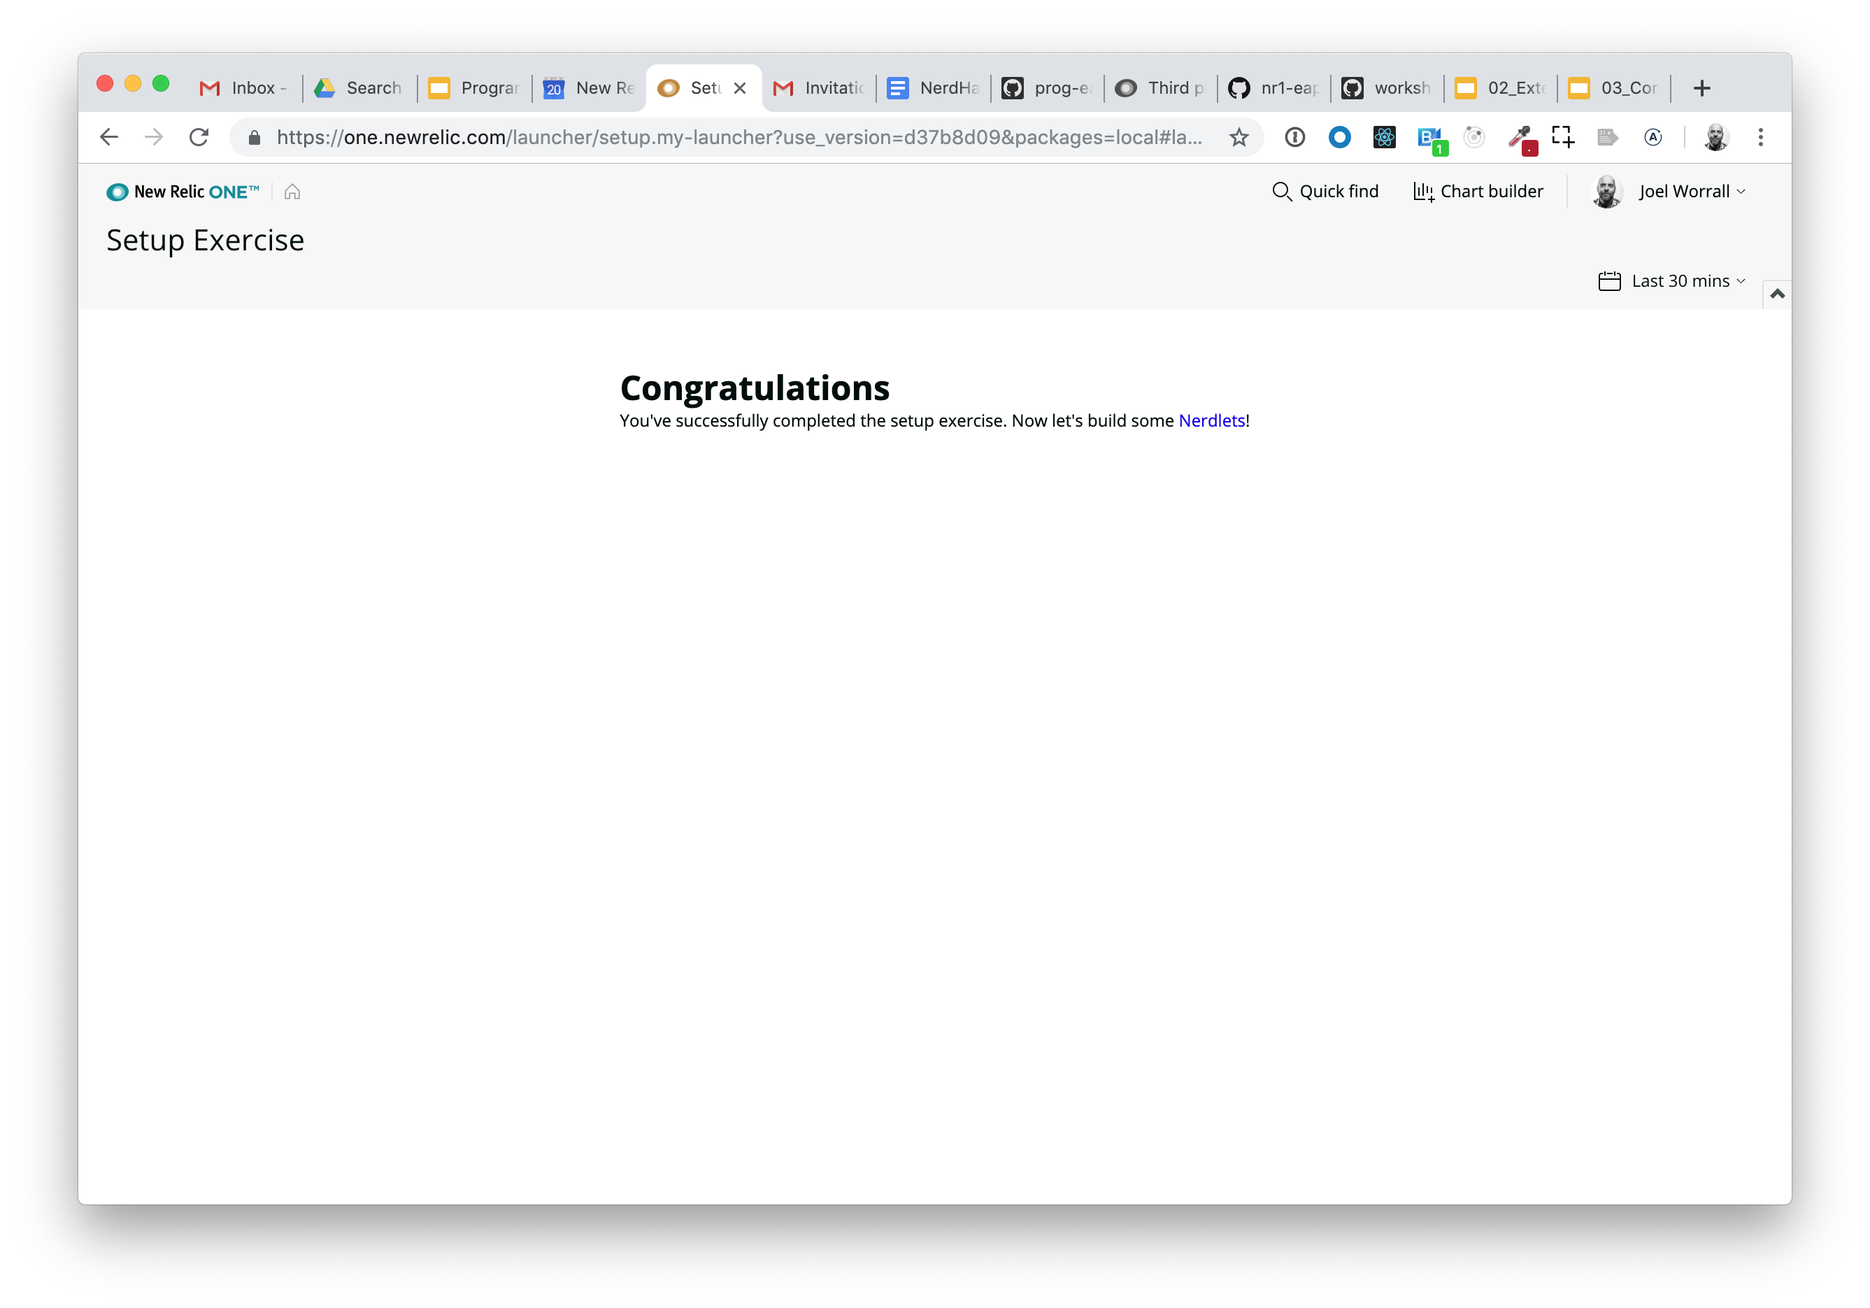
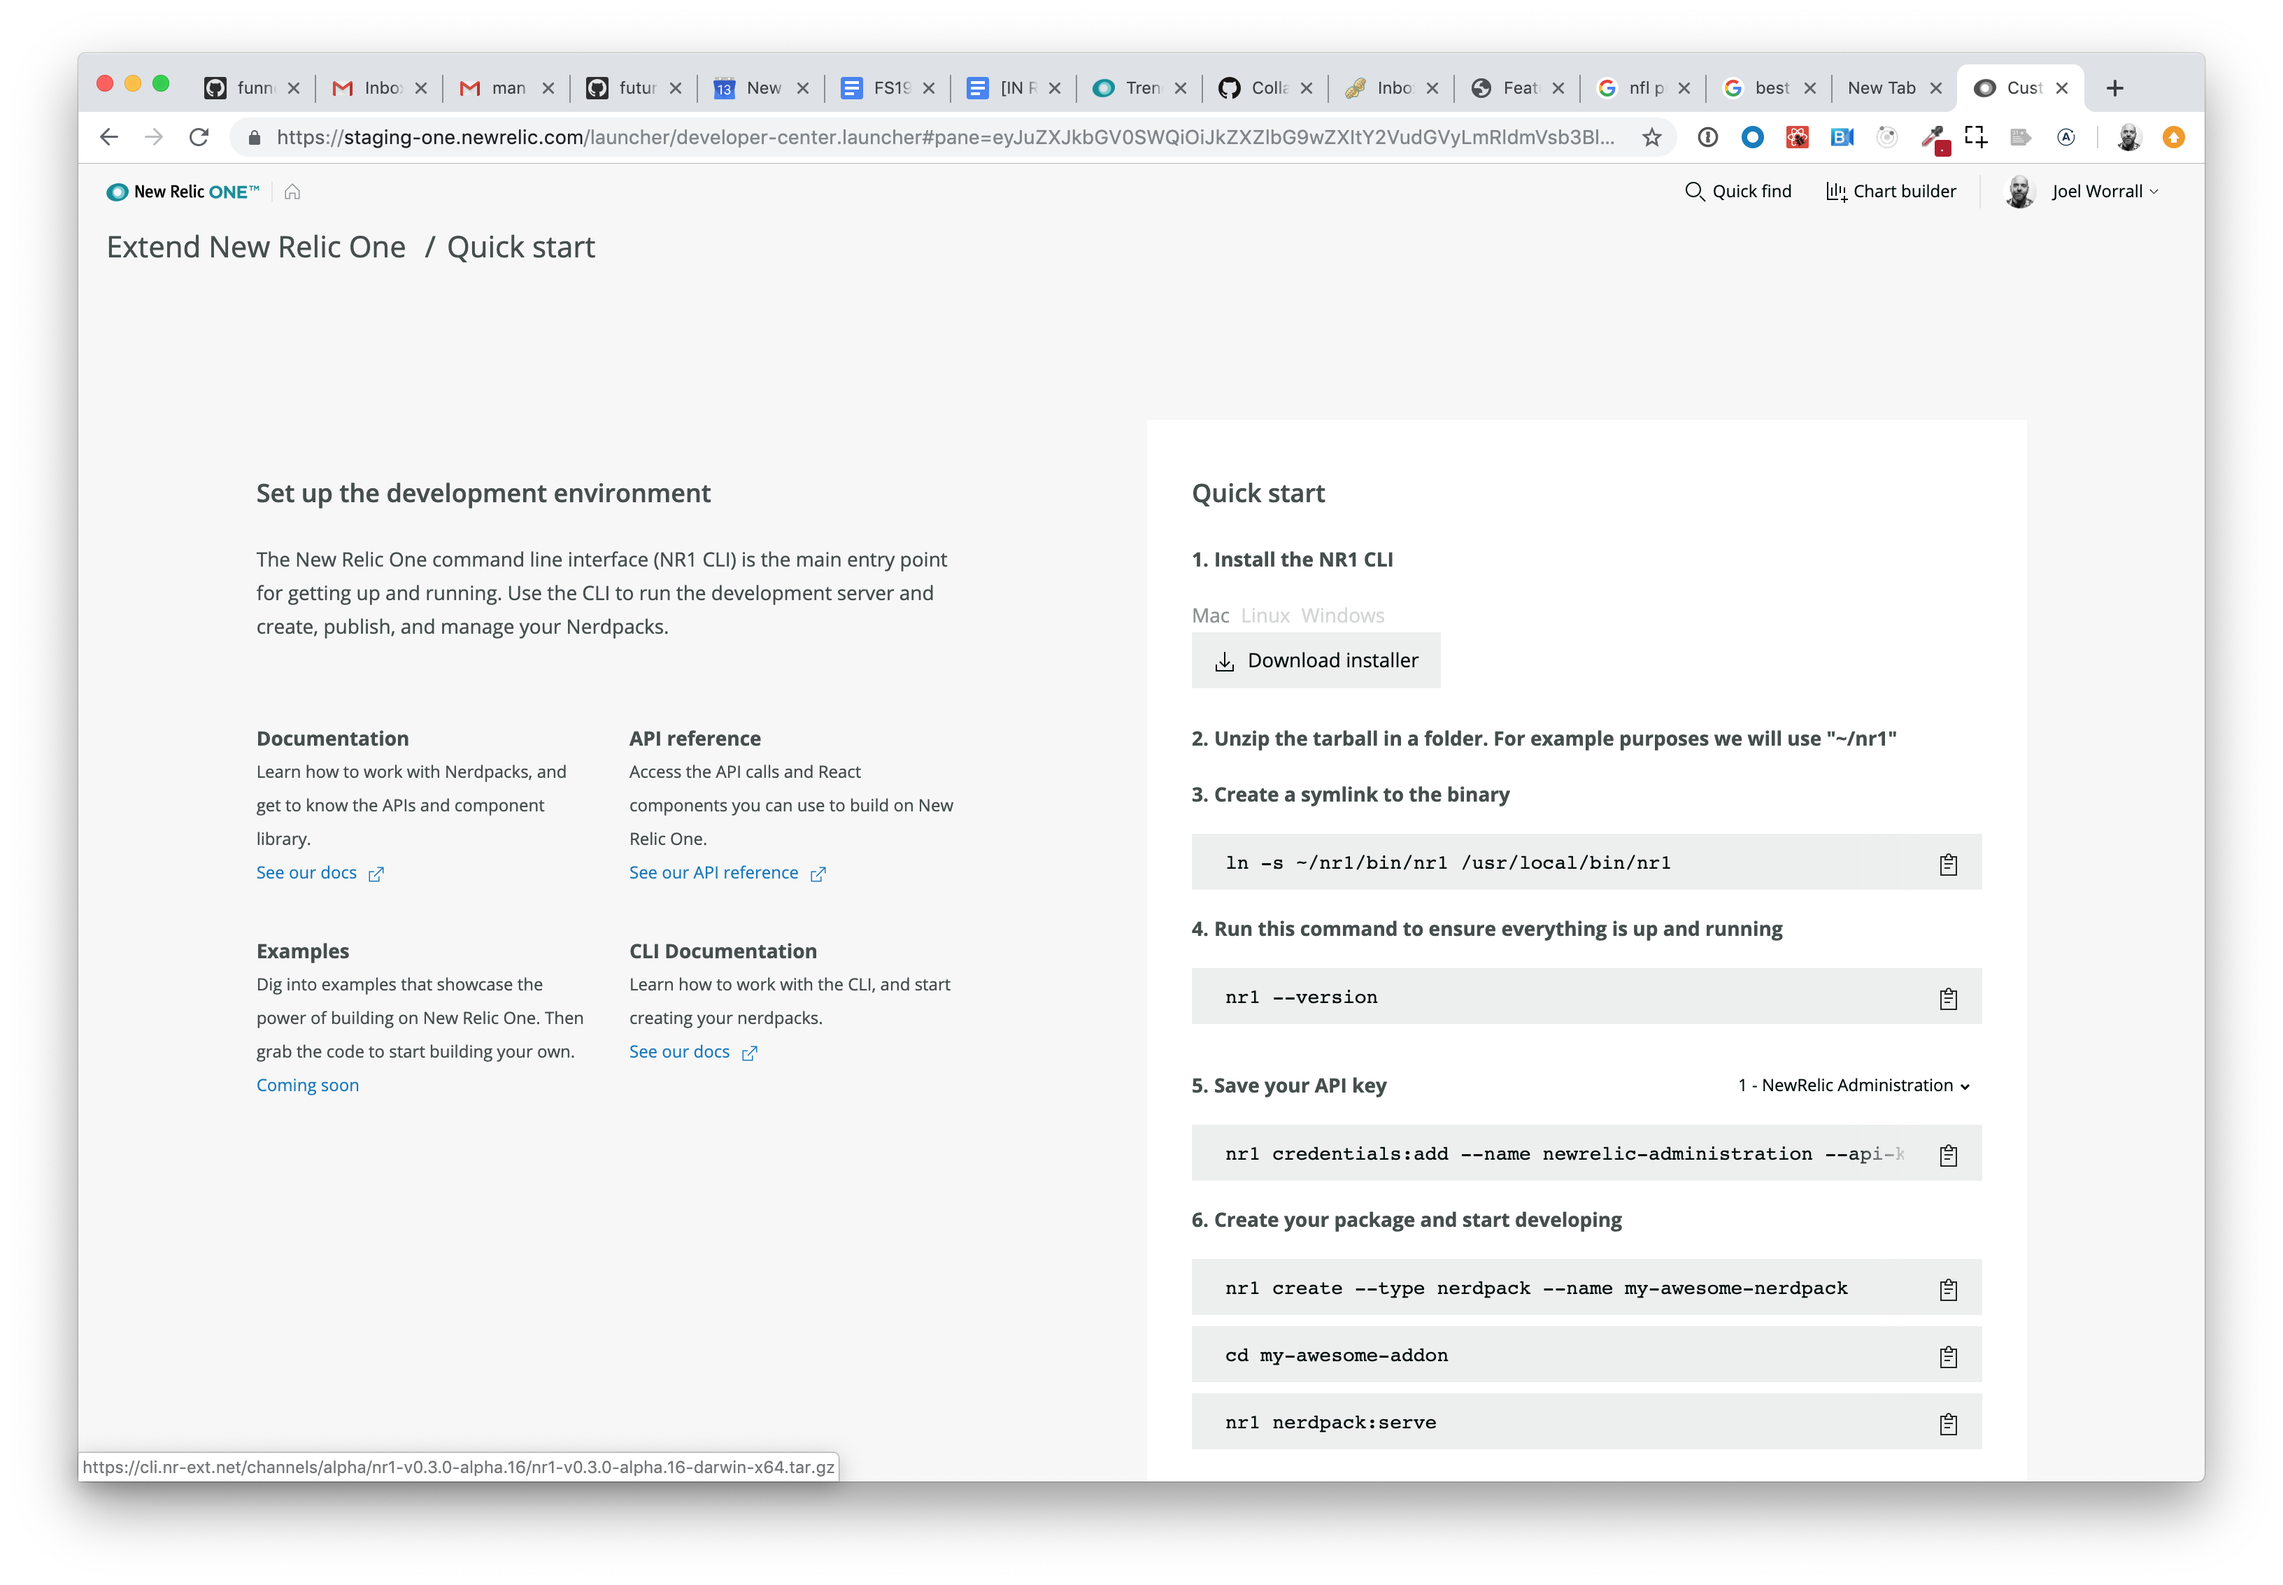
Updating the links and instructions for all NR1 workshop material.

diff --git a/SETUP.md b/SETUP.md
@@ -4,57 +4,46 @@ Getting ready to build on the New Relic One platform is quick and easy. Essentia
 
 # Setup Instructions
 
-1. In Google Chrome, navigate to <a href="https://github.com/newrelic/eap-cli/commit/310f68cbf32c01c0be3f4c3dc5f83ec689eee9c7" target="_blank">`This link`</a>, and click on the appropriate release of the NR1 CLI. (ex. `nr1-v0.3.0-alpha.11`)
-2. Download the appropriate zipped bundle of the NR1 CLI and **unzip it to your home folder** (ex. for Mac it would be `nr1-v0.3.0-alpha.11-darwin-x64.tar.gz`).
-3. Open a Terminal window. From the command line you should the following:
+In Google Chrome, navigate to the [New Relic One Developer Center](https://one.newrelic.com/launcher/developer-center.launcher#pane=eyJuZXJkbGV0SWQiOiJkZXZlbG9wZXItY2VudGVyLmRldmVsb3Blci1jZW50ZXIifQ==), and follow the instructions.
 
-```bash
-# To verify that you've unzipped the NR1 CLI, run this command and see similar output
-ls ~/nr1
-README.md node_modules package-lock.json bin oclif.manifest.json package.json
-```
+![New Relic ONE Developer Center](screenshots/setup_screen00.png)
 
-4. From the command line, run the following:
+1. Choose an account from the dropdown on the left, click `Start Building`, and accept the developer terms of use.
 
-```bash
-#Create an alias to the cli
-ln -s ~/nr1/bin/nr1 /usr/local/bin/nr1
+![Terms of Use](screenshots/setup_screen01.png)
 
-#Verify that you can execute nr1
-nr1 --version
+2. Download the appropriate CLI.
 
-#You should see output to the terminal window
-```
+![CLI link](screenshots/setup_screen03.png)
 
-5. If you haven't done so yet, generate your personal SSL cert for your development environment.
+3. Follow the instructions on the screen.
 
-```bash
-cd ~
-sudo ./nr1/bin/nr1 certs:generate
-#The cert will be saved to a hidden folder
-```
+![Step by step instructions](screenshots/setup_screen02.png)
 
-6. And if you haven't already cloned the workshop repo, do that now.
+
+4. And if you haven't already cloned the workshop repo, do that now.
 
 ```bash
 # if you haven't cloned the workshop repo already
 git clone git@github.com:newrelic/nr1-eap-workshop.git
 ```
 
-_Note: Each exercise exists as a folder in this repository. Following the material will involve going into that directory, running `npm install`, standing up the local development server by running `nr1 package:serve`, and following the INSTRUCTIONS.md in the given folder._
+_Note: Each exercise exists as a folder in this repository. Following the material will involve going into that directory, running `npm install`, standing up the local development server by running `nr1 nerdpack:serve`, and following the INSTRUCTIONS.md in the given folder._
 
-7. Now start the `setup` NR1 package.
+5. Now start the `setup` NR1 package.
 
 ```bash
 # ex. change directory into lab2
 cd workshop/setup
 
 npm install
-nr1 package:serve
+nr1 nerdpack:serve
 ```
 
 Your terminal output should look like the following:
-![terminal](screenshots/setup_screen01.png)
+![terminal](screenshots/setup_screen04.png)
 
-8. Open Google Chrome and navigate to  https://one.newrelic.com?&packages=local, and click on the New Relic One Launcher named `Setup Exercise`. You should see the following.
-![Congratulations](screenshots/setup_screen02.png)
+6. Open Google Chrome and navigate to  https://one.newrelic.com?&packages=local, and click on the New Relic One Launcher named `Setup Exercise`. You should see the following.
+![Congratulations](screenshots/setup_screen05.png)
+
+Great. Now let's get going.

diff --git a/lab1/INSTRUCTIONS.md b/lab1/INSTRUCTIONS.md
@@ -33,12 +33,12 @@ Component created successfully!
 nerdlet lab1-nerdlet is available at "./nerdlets/lab1-nerdlet"
 
 #And if it's not already running, execute the following
-nr1 package:serve
+nr1 nerdpack:serve
 ```
 
 You'll notice that the CLI creates three files in the `nerdlets/my-nerdlet` directory: index.js, styles.scss, and a nr1.json configuration.
 
-2. Assuming the the developer server is still running (via `nr1 package:serve`), validate (in a web browser) that you can click on and see the `Lab 1 Launcher` launcher by navigating in Google Chrome to https://one.newrelic.com?packages=local and click on the `Lab 1 Launcher`.
+2. Assuming the the developer server is still running (via `nr1 nerdpack:serve`), validate (in a web browser) that you can click on and see the `Lab 1 Launcher` launcher by navigating in Google Chrome to https://one.newrelic.com?packages=local and click on the `Lab 1 Launcher`.
 
 3. Change the `displayName` property of the Nerdlet in `nerdlets/lab1-nerdlet/nr1.json` to `Lab 1 Nerdlet` and save that file.
 
@@ -46,7 +46,7 @@ You'll notice that the CLI creates three files in the `nerdlets/my-nerdlet` dire
 
 ![lab1-nerdlet](../screenshots/lab1_screen01.png)
 
-_Note: if not, restart your local developer server by typing a `Ctrl`+`c` in the Terminal and then running `nr1 package:serve`._
+_Note: if not, restart your local developer server by typing a `Ctrl`+`c` in the Terminal and then running `nr1 nerdpack:serve`._
 
 5. Next, we're going to prep the Nerdlet to be able to generate some charts. Add the following code to your `MyNerdlet` class in `nerdlets/lab1-nerdlet/index.js`.
 

diff --git a/lab0/INSTRUCTIONS.md b/lab0/INSTRUCTIONS.md
@@ -44,7 +44,7 @@ You'll notice that the CLI creates a `./lab0/launchers/lab0-launcher` directory:
 
 ```bash
 npm install
-nr1 package:serve
+nr1 nerdpack:serve
 # Note: Once you start the local server, it will automatically listen for changes in the file system. To issue commands while the local server is running, simply open a new terminal and change to the lab0 directory.
 ```
 Navigate in Google Chrome to https://one.newrelic.com/?packages=local and click on the Lab 0 Launcher.
@@ -113,7 +113,7 @@ code .
 
 ![lab0-nerdlet](../screenshots/lab0_screen05.png)
 
-_Note: if not, restart your local developer server by typing `Ctrl`+`c` in the Terminal and then running `nr1 package:serve`._
+_Note: if not, restart your local developer server by typing `Ctrl`+`c` in the Terminal and then running `nr1 nerdpack:serve`._
 
 # Step 4: Creating a Nerdpack
 
